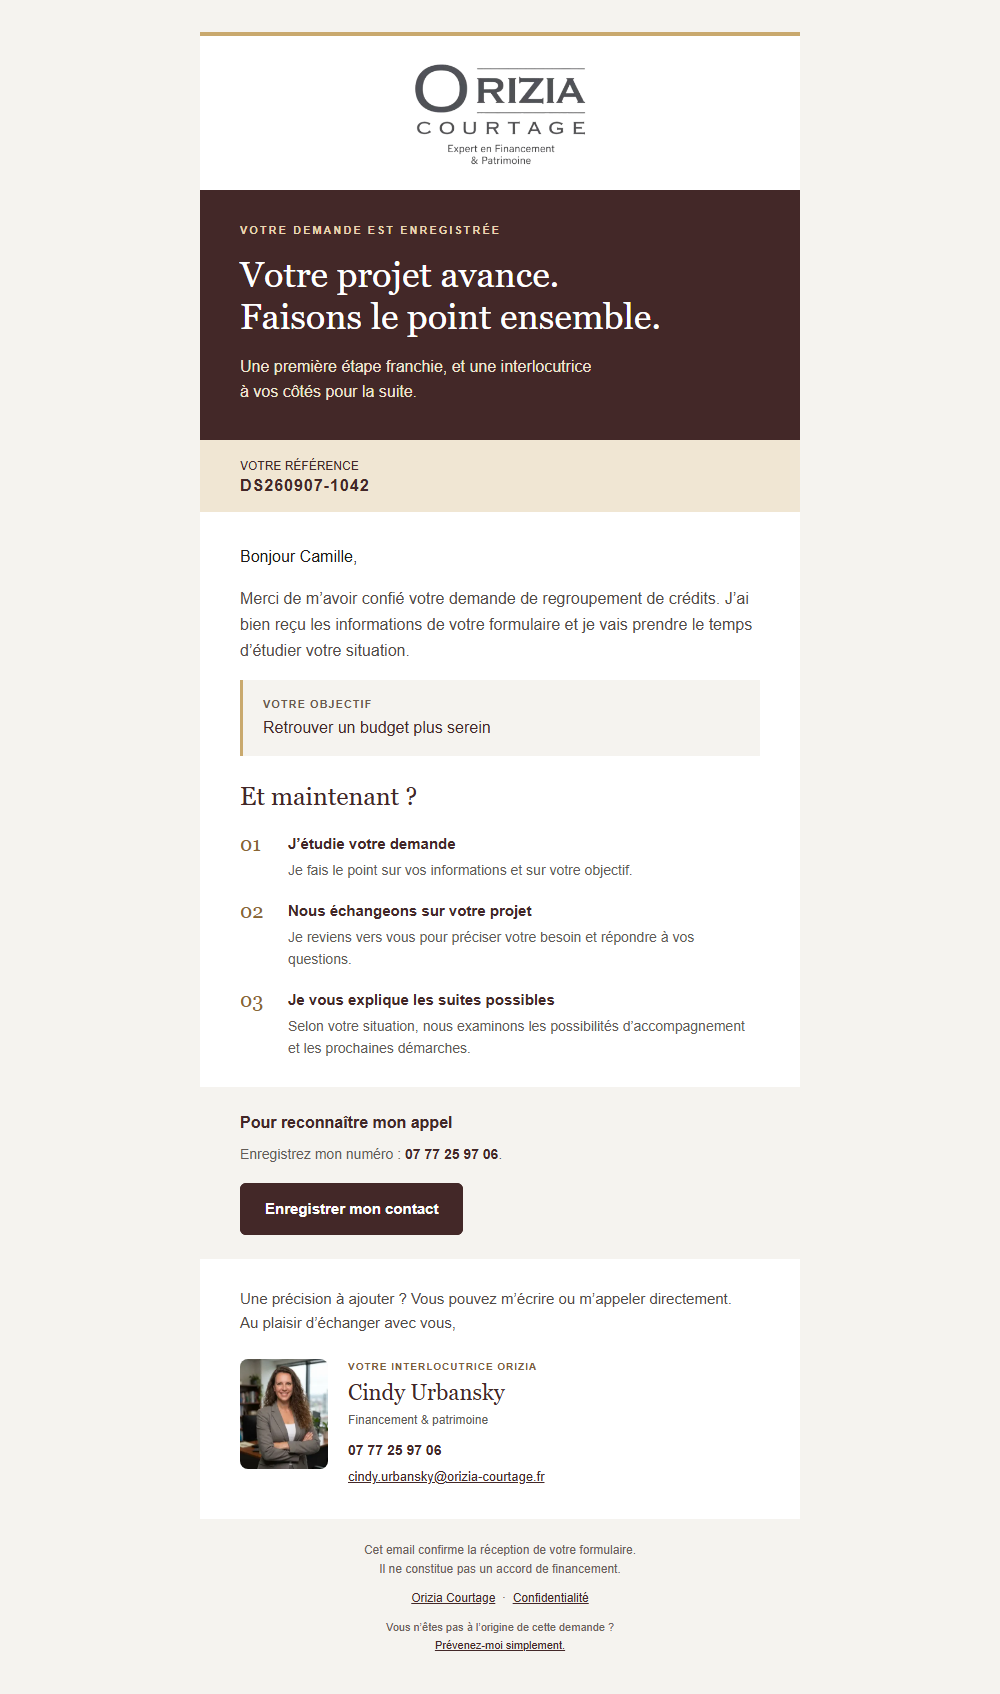
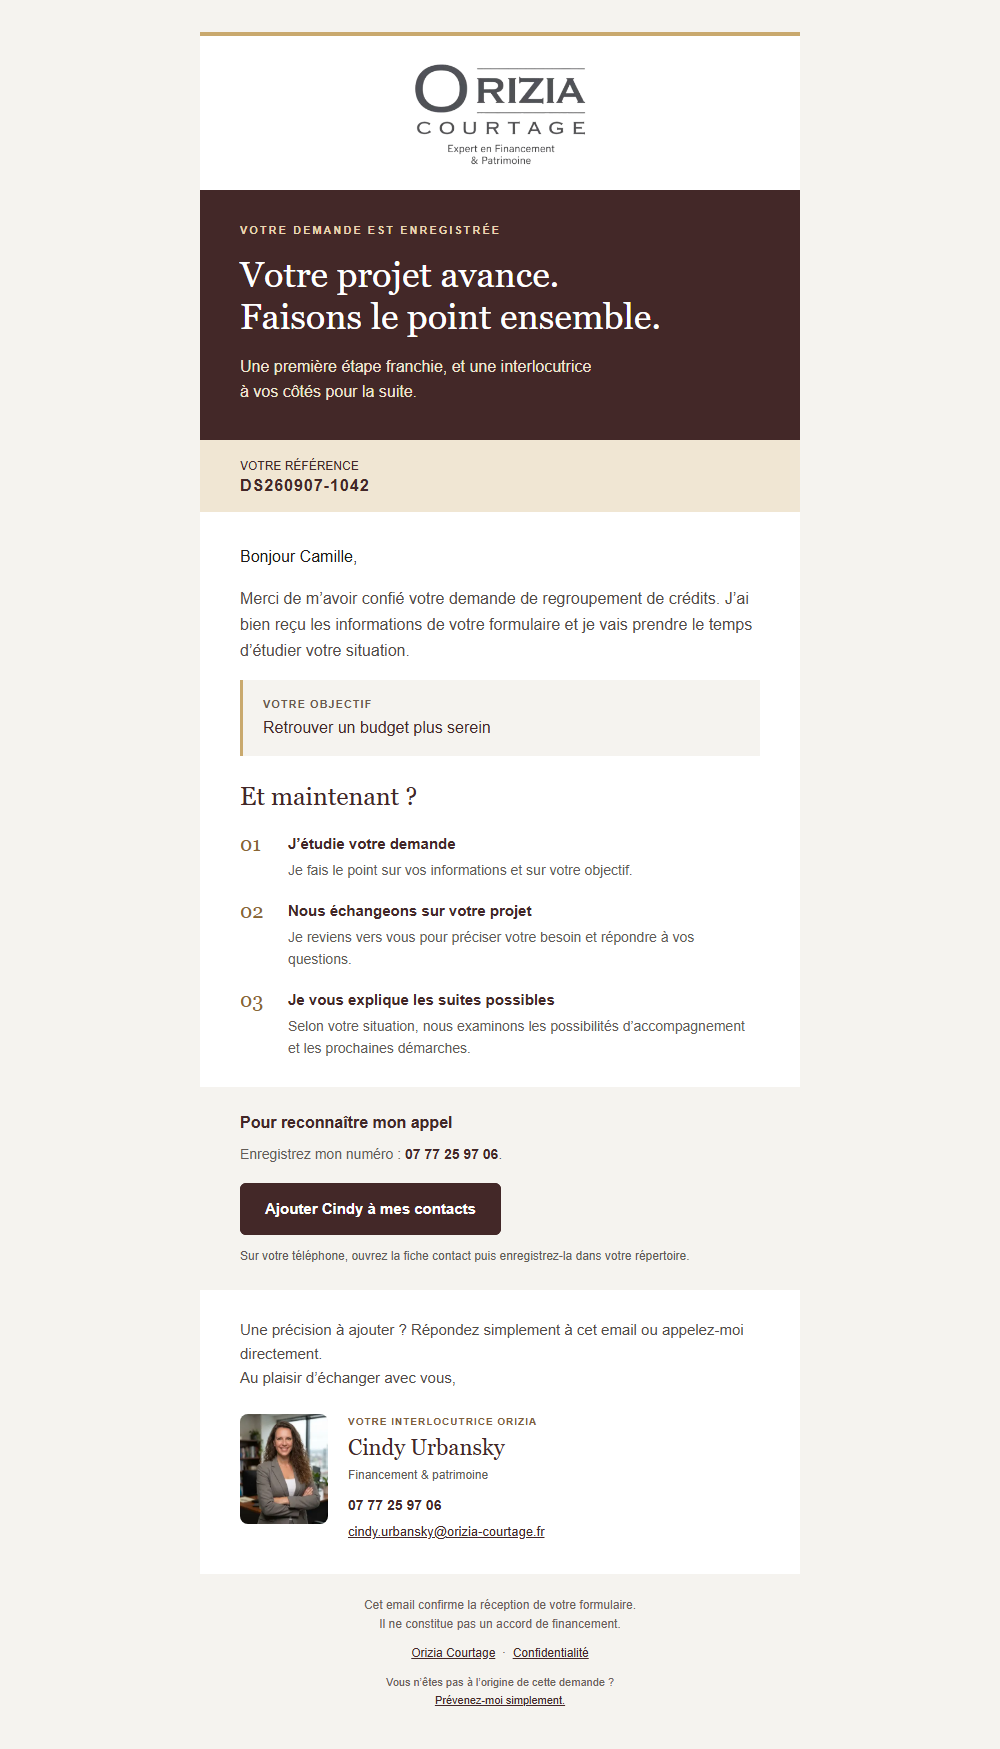
Set Orizia sender identity and multipart client emails

Changed region(s): [[0.186, 0.0307, 0.806, 0.9823]]

diff --git a/artifacts/email-rac/apercu-client.html b/artifacts/email-rac/apercu-client.html
@@ -55,11 +55,12 @@ a[x-apple-data-detectors]{color:inherit!important;text-decoration:none!important
  <p style="margin:0 0 8px;font-size:16px;line-height:24px;font-weight:bold;color:#432828;">Pour reconnaître mon appel</p>
  <p style="margin:0 0 18px;font-size:14px;line-height:22px;color:#625B56;">Enregistrez mon numéro : <a href="tel:+33777259706" style="color:#432828;font-weight:bold;text-decoration:none;white-space:nowrap;">07 77 25 97 06</a>.</p>
  <table role="presentation" cellpadding="0" cellspacing="0" border="0"><tr><td bgcolor="#432828" style="border-radius:6px;text-align:center;mso-padding-alt:15px 24px;">
-  <a class="button" href="https://www.orizia-courtage.fr/cindy-urbansky.vcf" style="display:inline-block;padding:15px 24px;border:1px solid #432828;border-radius:6px;font-size:15px;line-height:20px;font-weight:bold;text-decoration:none;color:#FFFFFF;background-color:#432828;mso-padding-alt:0;">Enregistrer mon contact</a>
+  <a class="button" href="https://www.orizia-courtage.fr/cindy-urbansky.vcf" style="display:inline-block;padding:15px 24px;border:1px solid #432828;border-radius:6px;font-size:15px;line-height:20px;font-weight:bold;text-decoration:none;color:#FFFFFF;background-color:#432828;mso-padding-alt:0;">Ajouter Cindy à mes contacts</a>
  </td></tr></table>
+ <p style="margin:12px 0 0;font-size:12px;line-height:19px;color:#625B56;">Sur votre téléphone, ouvrez la fiche contact puis enregistrez-la dans votre répertoire.</p>
 </td></tr>
 <tr><td class="pad" style="padding:28px 40px 32px;">
- <p style="margin:0 0 24px;font-size:15px;line-height:24px;color:#514B47;">Une précision à ajouter ? Vous pouvez m’écrire ou m’appeler directement.<br>Au plaisir d’échanger avec vous,</p>
+ <p style="margin:0 0 24px;font-size:15px;line-height:24px;color:#514B47;">Une précision à ajouter ? Répondez simplement à cet email ou appelez-moi directement.<br>Au plaisir d’échanger avec vous,</p>
  <table role="presentation" width="100%" cellpadding="0" cellspacing="0" border="0"><tr>
   <td width="88" valign="top"><img class="signature-photo" src="https://www.orizia-courtage.fr/_next/image?url=%2Fimages%2Fphoto-cindy.webp&amp;w=256&amp;q=75" width="88" height="110" alt="Cindy Urbansky" style="display:block;width:88px;height:110px;border-radius:8px;background-color:#F5F3EF;"></td>
   <td class="signature-gap" width="20" style="width:20px;">&nbsp;</td>

diff --git a/automation/n8n/rac-client-email.js b/automation/n8n/rac-client-email.js
@@ -64,11 +64,12 @@ a[x-apple-data-detectors]{color:inherit!important;text-decoration:none!important
  <p style="margin:0 0 8px;font-size:16px;line-height:24px;font-weight:bold;color:#432828;">Pour reconnaître mon appel</p>
  <p style="margin:0 0 18px;font-size:14px;line-height:22px;color:#625B56;">Enregistrez mon numéro : <a href="tel:+33777259706" style="color:#432828;font-weight:bold;text-decoration:none;white-space:nowrap;">07 77 25 97 06</a>.</p>
  <table role="presentation" cellpadding="0" cellspacing="0" border="0"><tr><td bgcolor="#432828" style="border-radius:6px;text-align:center;mso-padding-alt:15px 24px;">
-  <a class="button" href="${base}/cindy-urbansky.vcf" style="display:inline-block;padding:15px 24px;border:1px solid #432828;border-radius:6px;font-size:15px;line-height:20px;font-weight:bold;text-decoration:none;color:#FFFFFF;background-color:#432828;mso-padding-alt:0;">Enregistrer mon contact</a>
+  <a class="button" href="${base}/cindy-urbansky.vcf" style="display:inline-block;padding:15px 24px;border:1px solid #432828;border-radius:6px;font-size:15px;line-height:20px;font-weight:bold;text-decoration:none;color:#FFFFFF;background-color:#432828;mso-padding-alt:0;">Ajouter Cindy à mes contacts</a>
  </td></tr></table>
+ <p style="margin:12px 0 0;font-size:12px;line-height:19px;color:#625B56;">Sur votre téléphone, ouvrez la fiche contact puis enregistrez-la dans votre répertoire.</p>
 </td></tr>
 <tr><td class="pad" style="padding:28px 40px 32px;">
- <p style="margin:0 0 24px;font-size:15px;line-height:24px;color:#514B47;">Une précision à ajouter ? Vous pouvez m’écrire ou m’appeler directement.<br>Au plaisir d’échanger avec vous,</p>
+ <p style="margin:0 0 24px;font-size:15px;line-height:24px;color:#514B47;">Une précision à ajouter ? Répondez simplement à cet email ou appelez-moi directement.<br>Au plaisir d’échanger avec vous,</p>
  <table role="presentation" width="100%" cellpadding="0" cellspacing="0" border="0"><tr>
   <td width="88" valign="top"><img class="signature-photo" src="${portrait}" width="88" height="110" alt="Cindy Urbansky" style="display:block;width:88px;height:110px;border-radius:8px;background-color:#F5F3EF;"></td>
   <td class="signature-gap" width="20" style="width:20px;">&nbsp;</td>

diff --git a/automation/n8n/rac-client-text.js b/automation/n8n/rac-client-text.js
@@ -1,0 +1,35 @@
+// Plain-text alternative to rac-client-email.js; p is the prepared document.
+const line = value => String(value ?? '').replace(/[\r\n\u0000-\u001f\u007f]/g, ' ');
+return `ORIZIA COURTAGE
+Votre demande est enregistrée
+Référence : ${line(p.numero_dossier)}
+
+Bonjour ${line(p.profil_prenom)},
+
+Merci de m'avoir confié votre demande de regroupement de crédits. J'ai bien reçu les informations de votre formulaire et je vais prendre le temps d'étudier votre situation.
+
+Votre objectif : ${line(p.Raison || 'Regroupement de crédits')}
+
+ET MAINTENANT ?
+1. J'étudie votre demande : je fais le point sur vos informations et votre objectif.
+2. Nous échangeons sur votre projet : je reviens vers vous pour préciser votre besoin et répondre à vos questions.
+3. Je vous explique les suites possibles : selon votre situation, nous examinons les possibilités d'accompagnement et les prochaines démarches.
+
+POUR RECONNAÎTRE MON APPEL
+Enregistrez mon numéro : 07 77 25 97 06.
+Ajouter Cindy à mes contacts :
+https://www.orizia-courtage.fr/cindy-urbansky.vcf
+Sur votre téléphone, ouvrez la fiche contact puis enregistrez-la dans votre répertoire.
+
+Une précision à ajouter ? Répondez simplement à cet email ou appelez-moi directement.
+Au plaisir d'échanger avec vous,
+
+Cindy Urbansky
+Orizia Courtage — Financement & patrimoine
+07 77 25 97 06
+cindy.urbansky@orizia-courtage.fr
+https://www.orizia-courtage.fr/
+
+Cet email confirme la réception de votre formulaire. Il ne constitue pas un accord de financement.
+Confidentialité : https://www.orizia-courtage.fr/confidentialite
+Vous n'êtes pas à l'origine de cette demande ? Prévenez-moi simplement par retour d'email.`;

diff --git a/scripts/convert-make-to-n8n.py b/scripts/convert-make-to-n8n.py
@@ -119,12 +119,17 @@ const select = (value, ...args) => {
         if '{{' in subject:
             subject = '=' + subject
         nodes.append(node('Email ' + kind + (' client' if i else ' Cindy'), 'emailSend', {
-            'fromEmail': sender, 'toEmail': to, 'subject': subject, 'emailFormat': 'html',
-            'html': '={{ ' + ref + f'.html{i}' + ' }}', 'options': {'appendAttribution': False}}, len(nodes) * 260, 2.1))
+            'fromEmail': 'Orizia Courtage <' + sender + '>', 'toEmail': to, 'subject': subject, 'emailFormat': 'html',
+            'html': '={{ ' + ref + f'.html{i}' + ' }}', 'options': {'appendAttribution': False, 'allowUnauthorizedCerts': False}}, len(nodes) * 260, 2.1))
     if kind == 'rac':
         client = next(n for n in nodes if n['name'] == 'Email rac client')
         email_source = (OUT / 'rac-client-email.js').read_text(encoding='utf-8')
         client['parameters']['html'] = "={{ (() => { const p = $('Preparer rac').first().json;\n" + email_source + "\n})() }}"
+        text_source = (OUT / 'rac-client-text.js').read_text(encoding='utf-8')
+        client['parameters']['text'] = "={{ (() => { const p = $('Preparer rac').first().json;\n" + text_source + "\n})() }}"
+        client['parameters']['emailFormat'] = 'both'
+        client['parameters']['subject'] = 'Votre demande a bien été reçue | Orizia Courtage'
+        client['parameters']['options']['replyTo'] = 'Cindy Urbansky <cindy.urbansky@orizia-courtage.fr>'
     nodes.append(node('Confirmer ' + kind, 'respondToWebhook', {
         'respondWith': 'json', 'responseBody': '{"success":true}', 'options': {'responseCode': 200}}, len(nodes) * 260, 1.4))
     connections = {a['name']: {'main': [[{'node': b['name'], 'type': 'main', 'index': 0}]]}

diff --git a/automation/n8n/EMAIL-CLIENT.md b/automation/n8n/EMAIL-CLIENT.md
@@ -12,6 +12,16 @@ Validation : 10 tests automatiques (modèle client et migration), expression ren
 
 Les aperçus avec des données fictives se trouvent dans `artifacts/email-rac/`.
 
+## Identité et délivrabilité — 8 septembre 2026
+
+Les trois nœuds SMTP RAC/rappel affichent désormais `Orizia Courtage` tout en conservant leur adresse d'envoi. Le client reçoit un message multipart texte/HTML, avec `Reply-To: Cindy Urbansky <cindy.urbansky@orizia-courtage.fr>`, un objet descriptif et la vérification des certificats activée. Le bouton « Ajouter Cindy à mes contacts » ouvre la VCF publique ; l'utilisateur confirme l'enregistrement sur son téléphone. L'ajout n'est pas automatique.
+
+Le 8 septembre à 06:00:56 UTC, un seul test autorisé a été envoyé à la boîte Orange du propriétaire via l'implémentation Send Email installée dans n8n, le credential SMTP existant et les paramètres du nouveau nœud client. Transport OVH `ssl0.ovh.net:465`, TLS implicite. Réponse SMTP : `250 2.0.0 Ok: 14033 bytes queued as 59C39C2604`. Aucun enregistrement MongoDB ni email à Cindy n'a été déclenché. L'acceptation SMTP ne prouve pas le classement en boîte de réception ni la validation DKIM du message reçu.
+
+DNS observé : SPF `v=spf1 include:mx.ovh.com -all`, DMARC `v=DMARC1; p=none;`, deux sélecteurs DKIM OVH (`ovhmo-selector-1` et `ovhmo-selector-2`) avec clés publiques résolues. Leur présence ne suffit pas à prouver que chaque message est correctement signé et aligné. Aucun DNS n'a été modifié ; un passage DMARC à `reject` nécessiterait d'abord de contrôler tous les émetteurs du domaine, dont les formulaires envoyant via Resend.
+
+Orange exige une authentification SPF/DKIM/DMARC correcte : https://postmaster.orange.fr/. Pour diagnostiquer le classement du test, vérifier les en-têtes `Authentication-Results`, `DKIM-Signature` et `Return-Path` dans le message reçu. L'activation et les clés DKIM se gèrent chez le fournisseur d'envoi : https://docs.ovhcloud.com/fr/guides/web-cloud/domains/dns-zone-dkim. Ne pas fabriquer de sélecteur ni ajouter un deuxième enregistrement SPF.
+
 ```sh
 node --test scripts/test-rac-client-email.mjs scripts/test-n8n-migration.mjs
 ```
